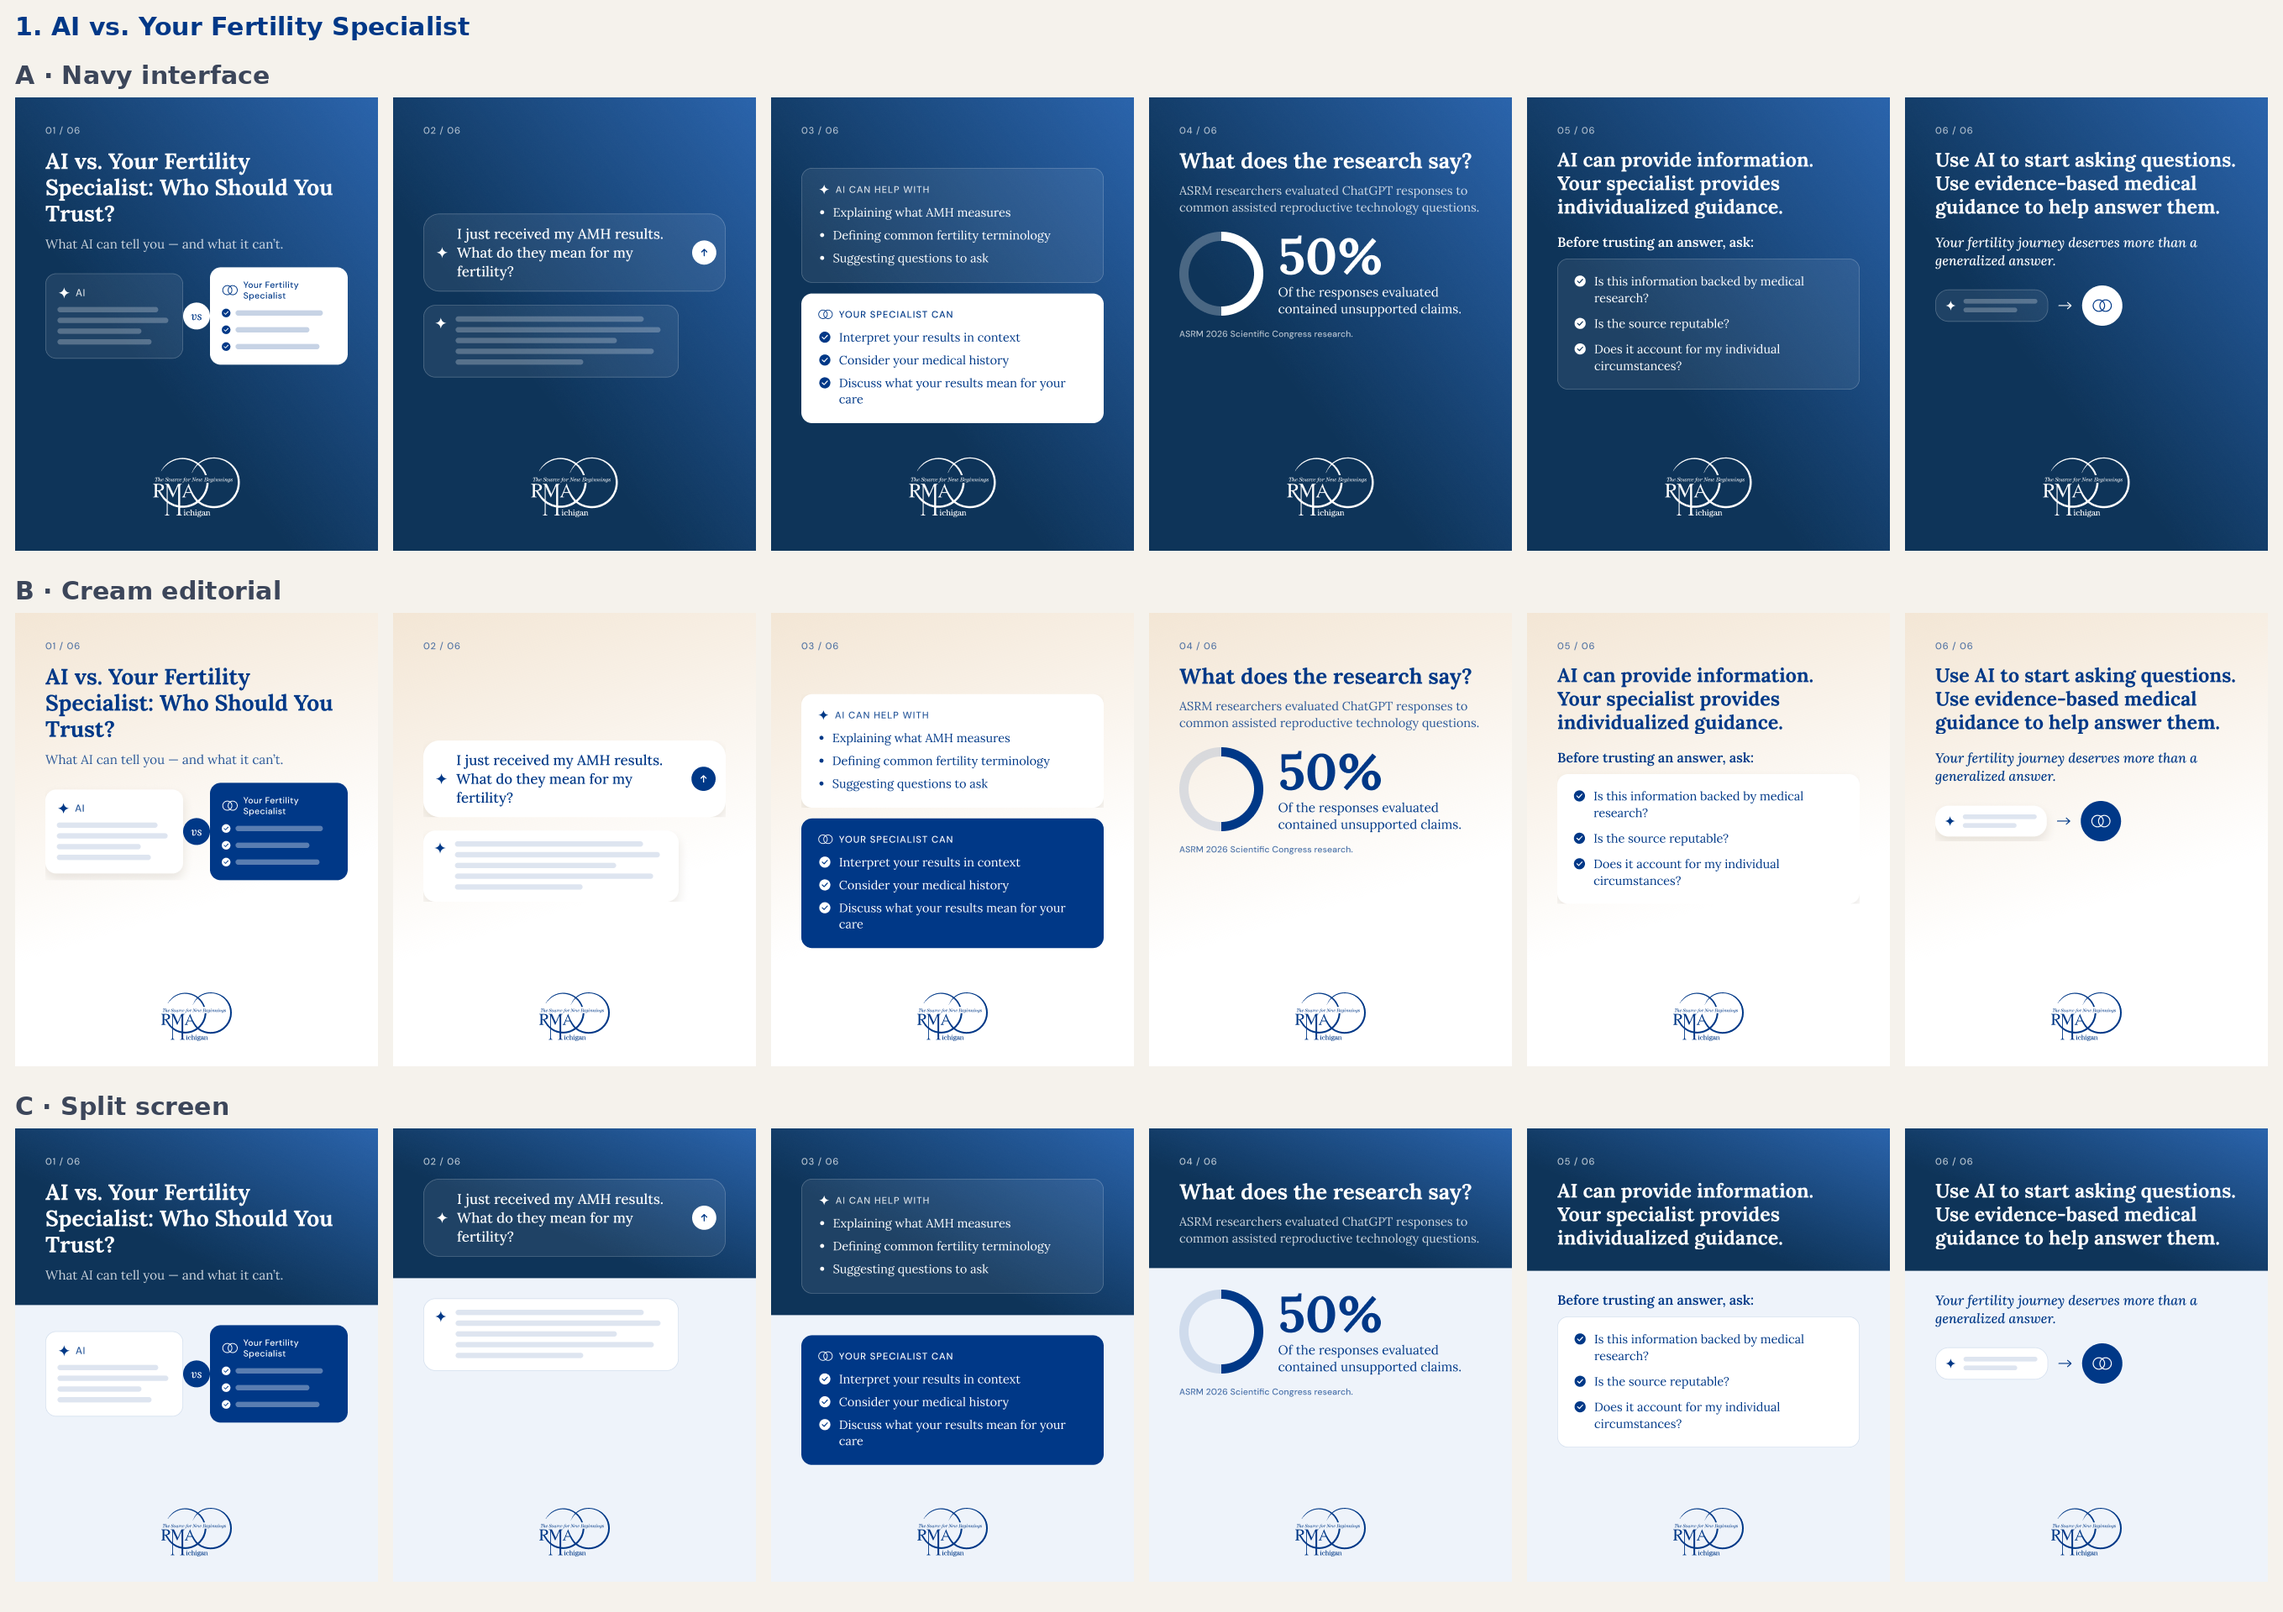
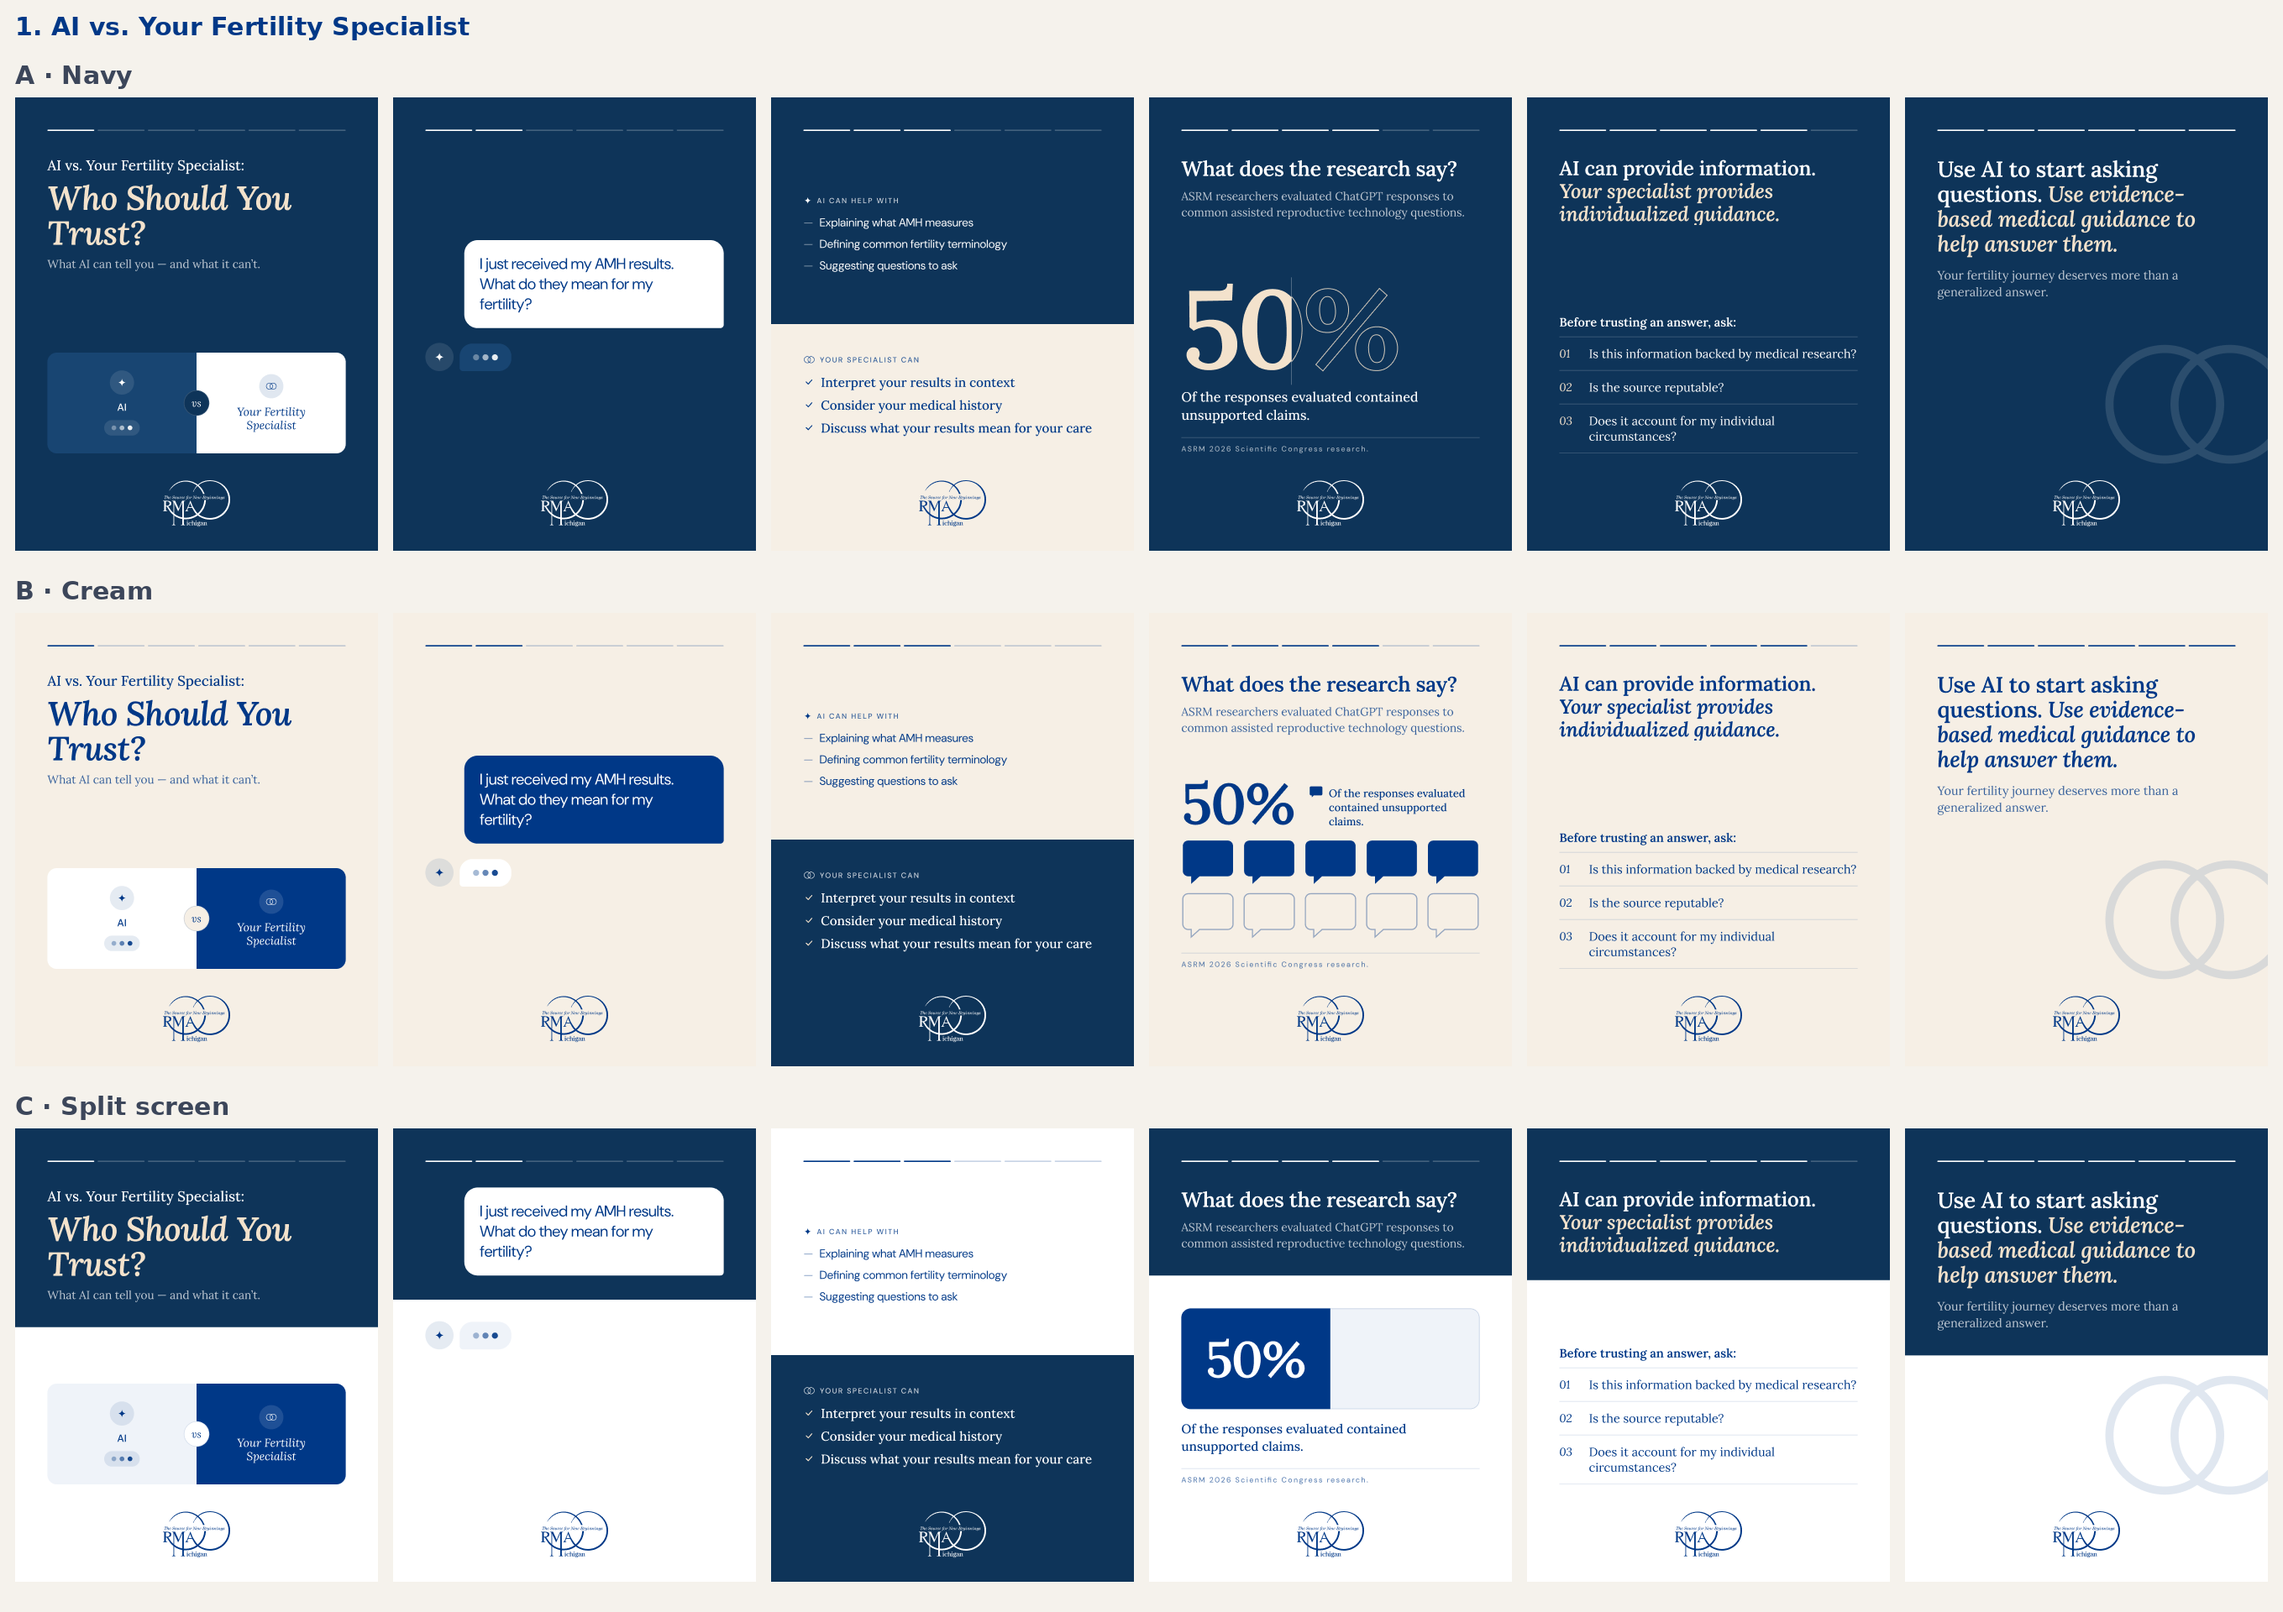
Rebuild November trend slots with a crafted editorial system
All three RMA trend posts were rebuilt after feedback that round 1 looked
generic: flat navy/cream, Lora with italic accents, a fixed grid checked
on every slide, three different 50% treatments, a timeline cover for the
NIH post and realistic Reels-style phone screens with AI stills for the
TikTok checklist. The handoff records the system and the new flags.

Claude-Session: https://claude.ai/code/session_016yKrfT8RQFRJPW8Btr4Q9U

diff --git a/rma-michigan-social/handoff-trend-nov.md b/rma-michigan-social/handoff-trend-nov.md
@@ -6,21 +6,27 @@ were not built). All slide copy is the PDF's graphic text, verbatim.
 Figma: Sandbox page, section "Trend slots — November (RMA)", below the Community & grants section.
 Each post has three rows (A, B, C), one slide per column, 1080×1350.
 
-## The three versions (same system across all three posts)
+## Round 2 — crafted rebuild (replaces round 1)
 
-| Version | Look |
+Feedback: round 1 looked "very AI" (glass panels on a glow, grey placeholder bars, generic icon
+chips, content floating at the top). Everything was rebuilt with an editorial system:
+
+- **Colour:** flat brand navy (#0E3459) or cream (#F6EFE5); no glow, no glass. One accent: soft
+  cream on navy, navy on cream. Amber appears only on caution stickers.
+- **Type:** Lora SemiBold headlines with the key phrase in SemiBold Italic (the accent colour);
+  Lora Regular for body; DM Sans only where something is "interface" (phone UI, small caps labels,
+  the caps news headlines in post 2).
+- **Grid (QA'd on all 57 slides):** 96 px side margins; carousel progress rail at y 96; headline top
+  at y 176; visuals bottom-anchored to y 1060 (or flowing when a slide is text-led); RMA logo
+  200 px wide, centred, y 1140, on every slide. No orphans, nothing clipped.
+- **Versions:** A — Navy. B — Cream. C — Split screen (navy band for the headline; on post 3 the
+  check slides split vertically: navy text panel, light panel for the phone).
+
+| Post | What carries it |
 | --- | --- |
-| A — Navy interface | Navy with the soft glow; interface elements as frosted-glass panels; the key answer or action is a solid white panel. |
-| B — Cream editorial | Cream wash; white cards with a soft shadow; the key answer or action is a solid navy panel. |
-| C — Split screen | A navy band carries the headline (and the question on slide 2); the interface sits below on a pale blue background. |
-
-## Posts
-
-| Post | Slides | Treatment in every version |
-| --- | --- | --- |
-| 1. AI vs. Your Fertility Specialist | 6 | Cover: an "AI" panel versus a "Your Fertility Specialist" panel. Slide 2: the AMH question typed into an AI search bar, with an answer bubble shown as placeholder lines. Slide 3: "AI can help with" panel above the "Your specialist can" panel. Slide 4: 50% as a half-filled ring. Slide 5: the three questions as a checklist. Slide 6: closing line with a small "AI to specialist" motif. |
-| 2. NIH Women's Health Division explainer | 6 | Cover: a subtle egg-cell line illustration and a three-point timeline teaser (no political imagery). Slide 2: date chip and statement with a callout. Slide 3: numbered vertical timeline. Slide 4: "Why does this matter?" panel. Slide 5: research areas as chips. Slide 6: "The bigger picture?" panel. |
-| 3. Before You Believe That Fertility TikTok | 7 | Generic short-video post previews (avatar, video, likes, comments, shares — no platform branding). Checks 1–2 carry a check mark (profile preview; search results with sources); checks 3–5 carry a caution mark on a post preview (with a shopping tag on 4 and a clock on 5). Cover lists the five checks; slide 7 moves from the feed to the care team. |
+| 1. AI vs. Your Fertility Specialist (6) | Cover: one split card, "AI" (typing dots) vs "Your Fertility Specialist", with a "vs" seal. Slide 2: the AMH question as a sent chat bubble, AI "typing" below. Slide 3: frame splits in half — AI can help with (light) / Your specialist can (contrast). Slide 4: **50% shown three ways** — A: a giant "50%" half filled, half outlined; B: ten answer bubbles, five filled; C: one bar split exactly in half. Slide 5: numbered hairline list. Slide 6: closing line with the two-ring mark as a watermark. |
+| 2. NIH Women's Health Division (6) | Cover: headline plus a horizontal timeline (the three milestones from slide 3). Slide 2: date kicker, statement, italic pull quote. Slide 3: vertical timeline with italic milestone heads. Slide 4: "Why does this matter?" contrast panel. Slide 5: numbered hairline list of research areas. Slide 6: "The bigger picture?" closer. |
+| 3. Before You Believe That Fertility TikTok (7) | Realistic phone screens (bezel, status bar, Reels header, right-rail counts, handle + Follow, caption, audio line, tab bar) using three AI stills (creator setup, wellness flat lay, supplement bottle), each with a fact-check sticker: check for checks 1–2, amber caution for 3–5. Check 2 is a search screen whose results are the slide's own phrases (peer-reviewed research, reputable medical organizations, personal anecdotes). Cover lists the five checks beside a phone; slide 7 runs from the feed to the care team. |
 
 Previews: `previews/trend-nov-1-ai-vs-specialist-A-B-C.png`, `previews/trend-nov-2-nih-explainer-A-B-C.png`,
 `previews/trend-nov-3-fertility-tiktok-A-B-C.png`.
@@ -32,14 +38,17 @@ Previews: `previews/trend-nov-1-ai-vs-specialist-A-B-C.png`, `previews/trend-nov
    against the actual sources before publishing. Post 1 slide 4 shows "ASRM 2026 Scientific
    Congress research." as written.
 2. **Post 1, slide 2.** "An example question, specific to fertility, that someone might enter into
-   an AI tool." reads as a note to the designer, so it is not on the graphic. The brief also asks for
-   "a few example fertility questions"; only one is supplied, so only that one is used. The AI's
-   answer is shown as placeholder lines rather than invented text.
-3. **Post 1 labels.** "AI", "Your Fertility Specialist" and "vs" on the cover are taken from the title.
-4. **Post 2, slide 2 wording.** "A new executive order is passed" — executive orders are signed, not
+   an AI tool." reads as a note to the designer, so it is not on the graphic. Only one example
+   question is supplied, so only that one is used; the AI reply is shown as a typing indicator.
+3. **Post 2, slide 2 wording.** "A new executive order is passed" — executive orders are signed, not
    passed (slide 3 says "signed"). Suggest "signed".
-5. **Post 3 platform name.** TikTok is named in the copy only; the interface is a generic feed with
-   no TikTok logo or branding.
-6. **Caution colour.** The caution marks in post 3 use amber, the only colour outside the navy /
-   cream palette, so they read as a warning.
+4. **Post 3 phone screens are mock-ups.** The UI is modelled on Instagram Reels (the post itself is
+   about TikTok; the user asked for "reels"). No platform logos are used. Handles
+   (ttc.notes, wellness.with.you, the.supplement.shelf), captions and counts are invented; captions
+   are deliberately neutral so the post does not repeat any misleading claim. Check the handles do
+   not match real accounts before publishing.
+5. **Photography.** The three phone stills are AI-generated (objects and setting only, no people or
+   faces).
+6. **Caution colour.** Amber is the only colour outside the navy/cream palette, used only on the
+   caution stickers.
 7. **Trend-slot dates.** The PDF does not say which week each concept is for; confirm the slots.
